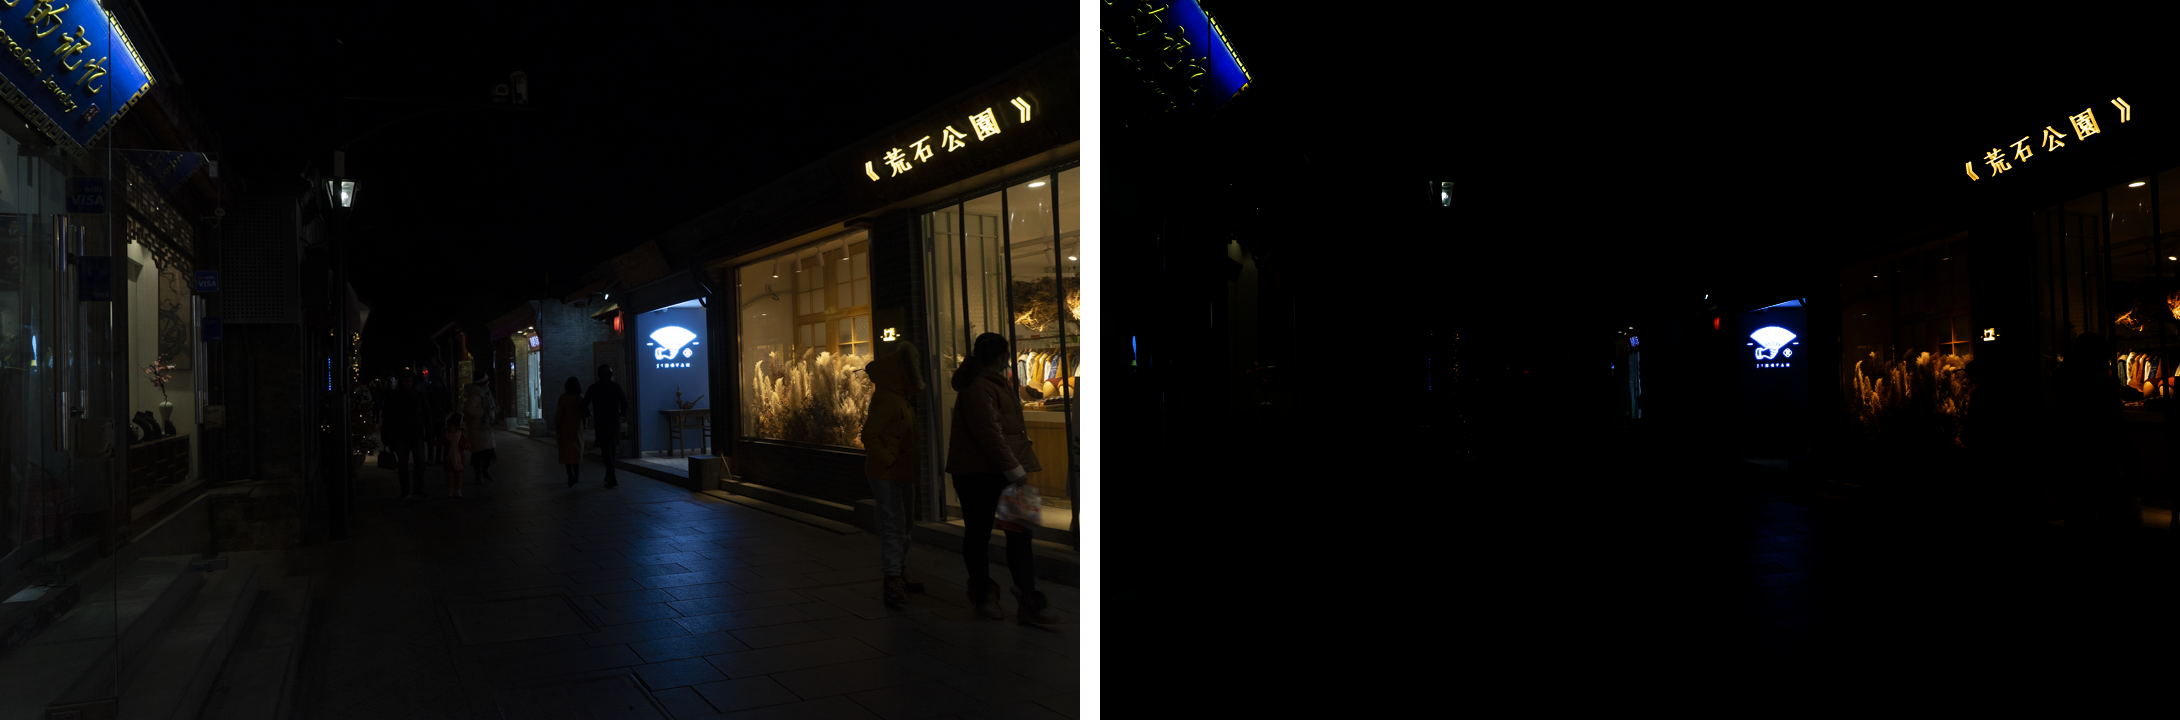
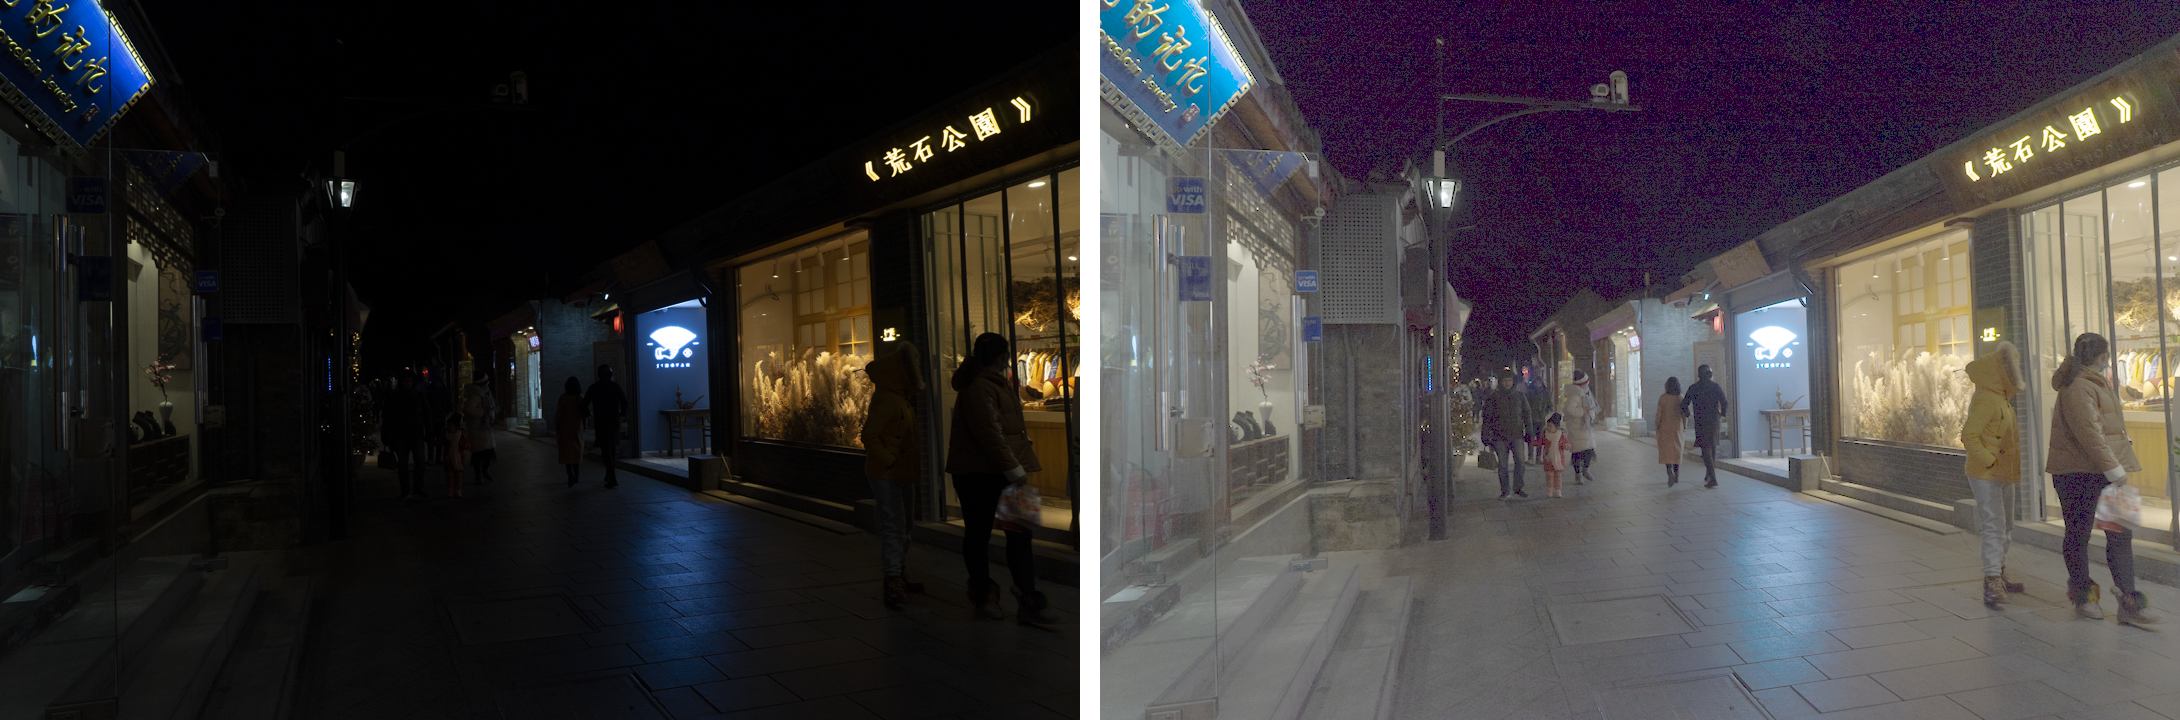
Fix gamma correction logic

diff --git a/transformacion.py b/transformacion.py
@@ -20,8 +20,10 @@ def load_images():
     return images
 
 def adjust_gamma(image, gamma=1.0):
-    invGamma = 1.0 / gamma
-    table = np.array([((i / 255.0) ** invGamma) * 255
+    # We want gamma < 1.0 to brighten the image.
+    # Standard formula: O = I^(gamma)
+    # If gamma=0.5 -> O = I^0.5 (Sqrt) -> Brightens
+    table = np.array([((i / 255.0) ** gamma) * 255
                       for i in np.arange(0, 256)]).astype("uint8")
     return cv2.LUT(image, table)
 
